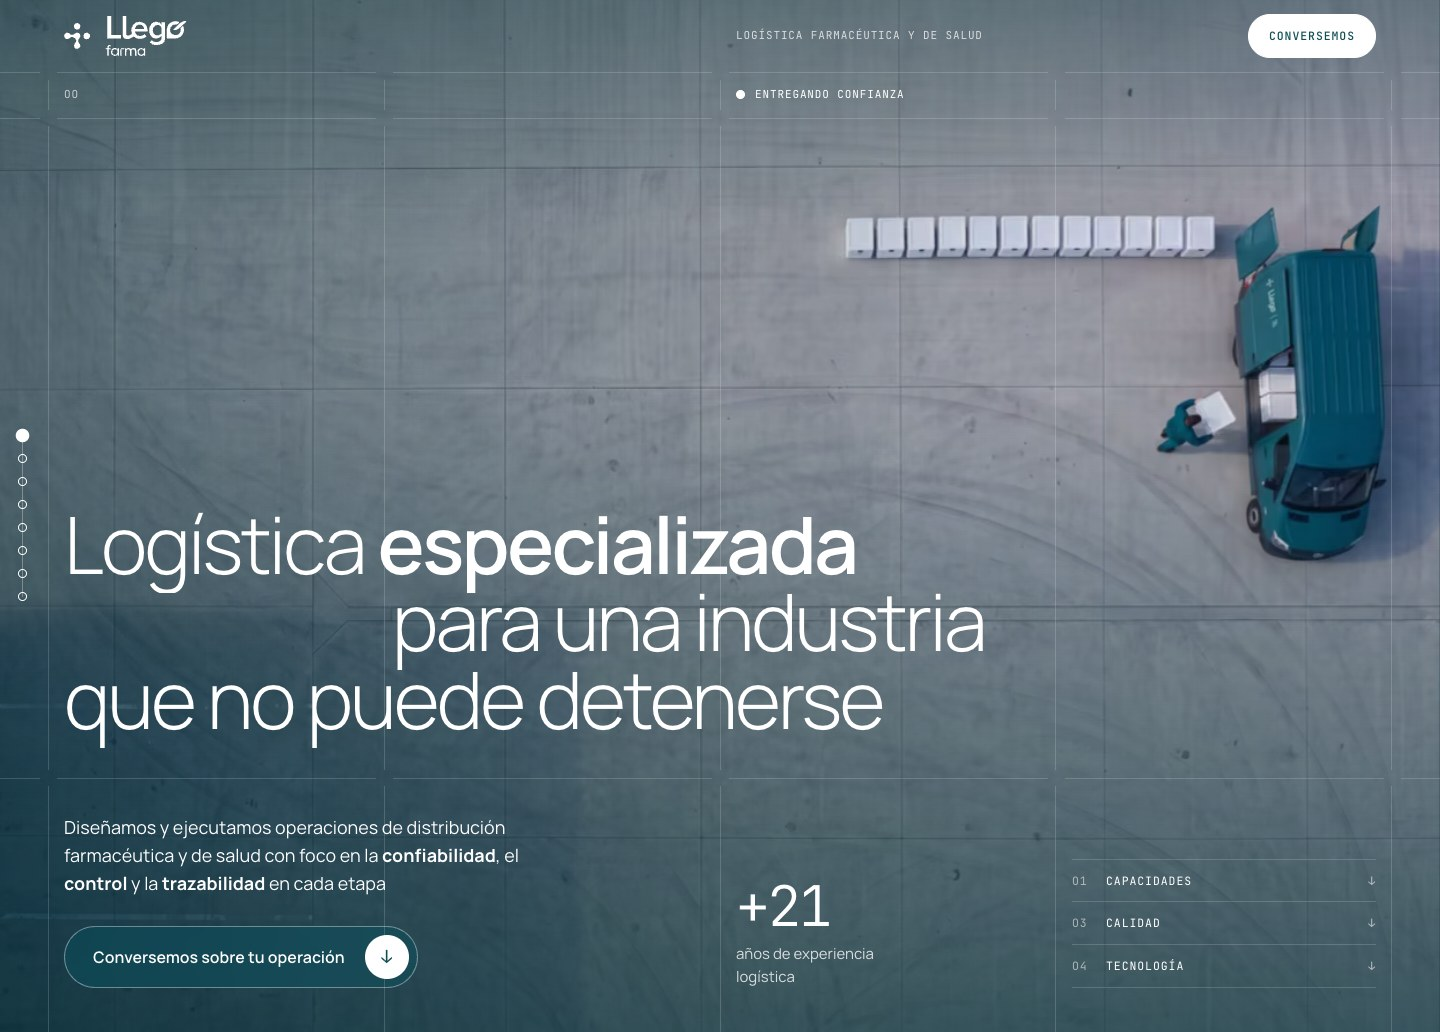
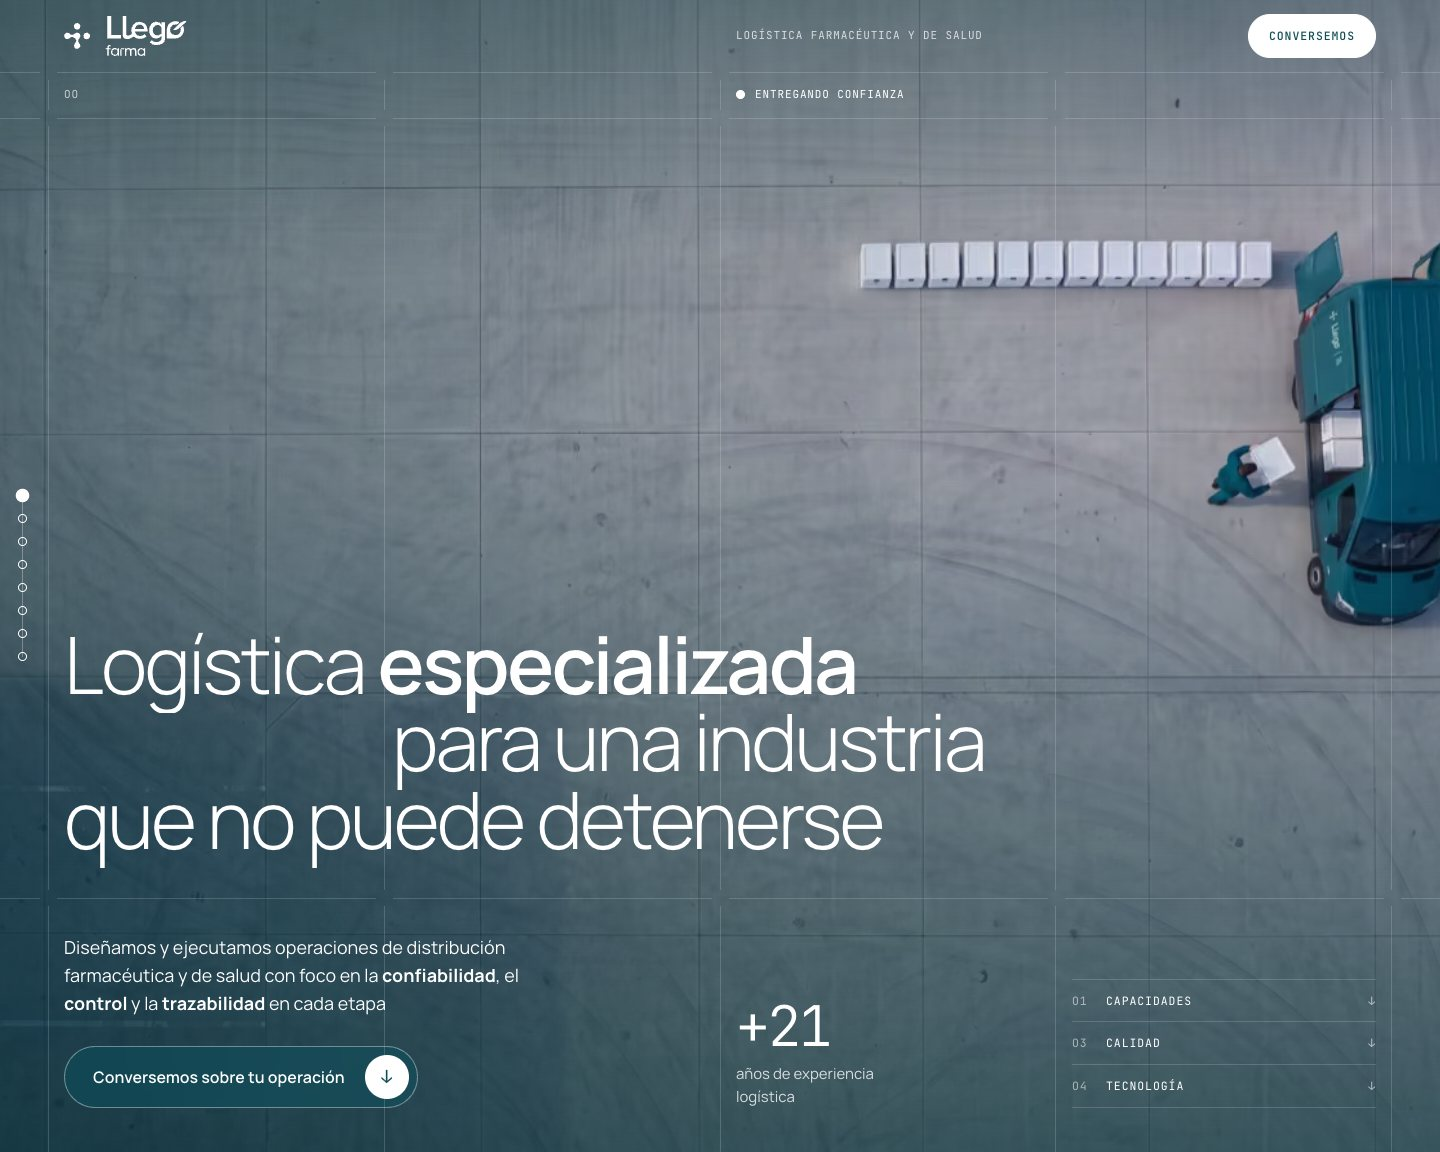
Llegó: estado morado de la 09 con Farma entera y pestaña /farma

diff --git a/redesign/explorations/caso/llego.css b/redesign/explorations/caso/llego.css
@@ -929,13 +929,23 @@ html.lf-abajo:has(> body.lf) { background: #2D2560; }
 .lf-dom-url .lf-dom-cursor { display: none; flex: none; width: 1px; height: 15px; margin-left: -7px; background: currentColor; animation: lf-cursor 1s steps(1) infinite; }
 .lf-dom-escribe .lf-dom-url .lf-dom-cursor { display: block; }
 @keyframes lf-cursor { 50% { opacity: 0; } }
-.lf-dom-carga { height: 2px; background: var(--lf-claro); transform-origin: left; scale: var(--carga, 0) 1; opacity: calc(1 - var(--lf-dc, 0)); }
+.lf-dom-carga { position: relative; z-index: 3; height: 2px; margin-bottom: -2px; background: var(--lf-claro); transform-origin: left; scale: var(--carga, 0) 1; opacity: calc(1 - var(--lf-dc, 0)); }
 .lf-dom-pant { position: relative; flex: 1; overflow: hidden; }
-/* El morado rodea a la página de Farma: la cabecera arriba y un margen a los lados. Al retirarse, la página crece desde abajo */
+/* El morado rodea a la página de Farma: una cabecera esquemática (el logotipo y un menú de barras, no el sitio real de la
+   madre) y Farma como una carpeta, con su pestaña /farma. Al retirarse el morado, la página crece desde abajo; la cabecera
+   y la pestaña se van en la primera mitad, antes de que la página las alcance */
 .lf-dom-madre { position: absolute; inset: 0; background: var(--lf-madre); }
-.lf-dom-madre-cab { position: absolute; left: 8%; right: 8%; top: 0; height: 16%; display: flex; align-items: center; justify-content: space-between; gap: 16px; color: #FFFFFF; }
-.lf-dom-madre-cab i { height: 46%; aspect-ratio: 200 / 77; background: #FFFFFF; -webkit-mask: url("media/lf-llego-logotipo.svg") left center / contain no-repeat; mask: url("media/lf-llego-logotipo.svg") left center / contain no-repeat; }
-.lf-dom-sitio { position: absolute; inset: 0; width: 100%; height: 100%; object-fit: cover; object-position: top; transform-origin: 50% 100%; scale: calc(1 - var(--lf-dm, 1) * 0.16); will-change: scale; }
+.lf-dom-madre-cab { position: absolute; left: 8%; right: 8%; top: 0; height: 10.5%; display: flex; align-items: center; justify-content: space-between; gap: 16px;
+    opacity: clamp(0, calc(var(--lf-dm, 1) * 2.5 - 1.5), 1); translate: 0 calc((1 - var(--lf-dm, 1)) * -40%); }
+.lf-dom-madre-cab i { height: 44%; aspect-ratio: 200 / 77; background: #FFFFFF; -webkit-mask: url("media/lf-llego-logotipo.svg") left center / contain no-repeat; mask: url("media/lf-llego-logotipo.svg") left center / contain no-repeat; }
+.lf-dom-madre-nav { display: flex; align-items: center; gap: 2.4cqi; }
+.lf-dom-madre-nav b { width: 4.4cqi; height: 5px; border-radius: 3px; background: rgba(255, 255, 255, 0.42); }
+.lf-dom-madre-nav b:nth-child(2) { width: 3.4cqi; }
+.lf-dom-madre-nav b:nth-child(3) { width: 5.2cqi; }
+.lf-dom-madre-nav em { width: 9cqi; height: 3.2cqi; border: 1px solid rgba(255, 255, 255, 0.6); border-radius: 99px; }
+.lf-dom-pestana { position: absolute; z-index: 1; left: calc(var(--lf-dm, 1) * 8%); bottom: calc((1 - var(--lf-dm, 1) * 0.16) * 100%); display: flex; align-items: center; height: 24px; padding: 0 12px;
+    border-radius: 6px 6px 0 0; background: var(--lf-claro); color: var(--lf-negro); opacity: clamp(0, calc(var(--lf-dm, 1) * 2.5 - 1.5), 1); }
+.lf-dom-sitio { position: absolute; inset: 0; width: 100%; height: 100%; object-fit: cover; object-position: top; transform-origin: 50% 100%; scale: calc(1 - var(--lf-dm, 1) * 0.16); box-shadow: 0 24px 60px rgba(0, 0, 0, calc(var(--lf-dm, 1) * 0.35)); will-change: scale; }
 
 /* --- 9.0 LA ANATOMÍA DE LA DIRECCIÓN --- */
 /* Un velo sobre la página con la dirección a escala de titular. Mide en unidades del contenedor: se ve igual en cualquier
@@ -1183,7 +1193,7 @@ html.lf-abajo:has(> body.lf) { background: #2D2560; }
     .lf-dom-cromo { padding: 8px; }
     .lf-dom-cromo .cs-ev-luces { display: none; }
     .lf-dom-url { padding: 0 12px; gap: 10px; }
-    .lf-dom-madre-cab span, .lf-dom-placa figcaption { display: none; }
+    .lf-dom-madre-nav, .lf-dom-placa figcaption { display: none; }
     /* Teléfono */
     .lf-tel-sec .cs-dec { grid-row: 1; }
     .lf-tel { grid-row: 2; width: min(50vw, 25vh); padding: 6px; border-radius: 30px; }

diff --git a/redesign/explorations/caso/llego.html b/redesign/explorations/caso/llego.html
@@ -636,7 +636,7 @@
                     <div class="lf-dom-cromo"><span class="cs-ev-luces"><i></i><i></i><i></i></span><span class="lf-dom-url"><span class="lf-dom-candado"></span><span data-url-chica>llego.cl/farma</span><i class="lf-dom-cursor"></i></span></div>
                     <span class="lf-dom-carga"></span>
                     <div class="lf-dom-pant">
-                        <div class="lf-dom-madre"><div class="lf-dom-madre-cab"><i></i><span class="mono">Una carpeta dentro del sitio morado</span></div></div>
+                        <div class="lf-dom-madre"><div class="lf-dom-madre-cab"><i></i><span class="lf-dom-madre-nav"><b></b><b></b><b></b><em></em></span></div><span class="lf-dom-pestana mono">/farma</span></div>
                         <img class="lf-dom-sitio" src="media/lf-sitio-hero.jpg" alt="" loading="lazy" decoding="async">
                         <div class="lf-dom-anat">
                             <span class="lf-dom-anat-tit mono">La dirección del QR</span>

diff --git a/index.html b/index.html
@@ -30,7 +30,7 @@
     </style>
 </head>
 <body>
-    <header><b>agustín.design</b><span class="mono">Actualizado: 16-11-2026 12:07</span></header>
+    <header><b>agustín.design</b><span class="mono">Actualizado: 16-11-2026 13:40</span></header>
     <h1>Rediseño</h1>
     <p class="bajada">Exploraciones del rediseño del portafolio, sección por sección. Este repositorio se actualiza en cada avance para revisarlo desde cualquier dispositivo.</p>
     <ol>
